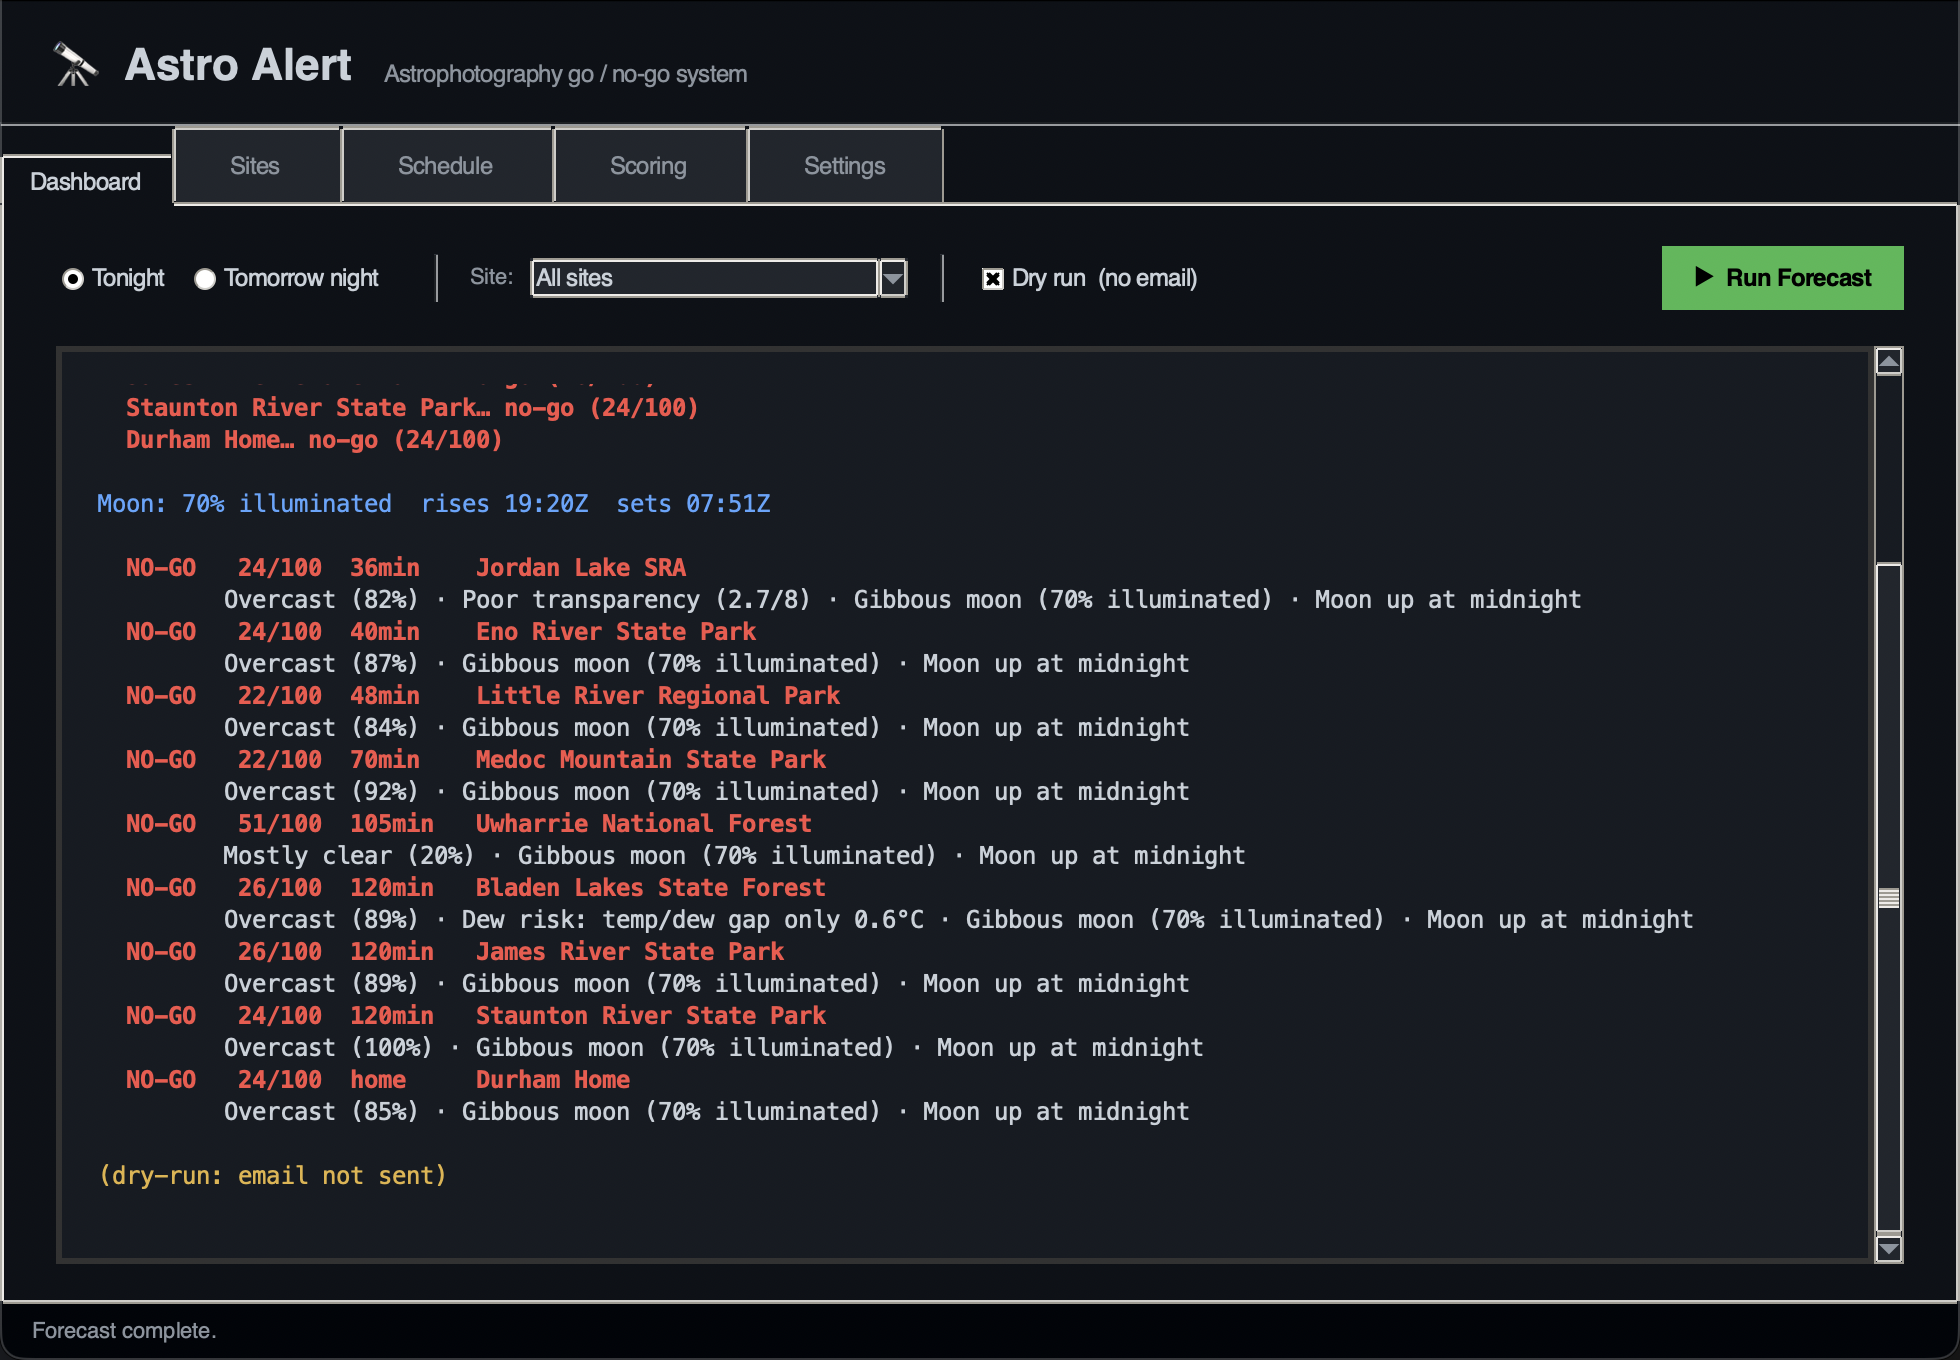
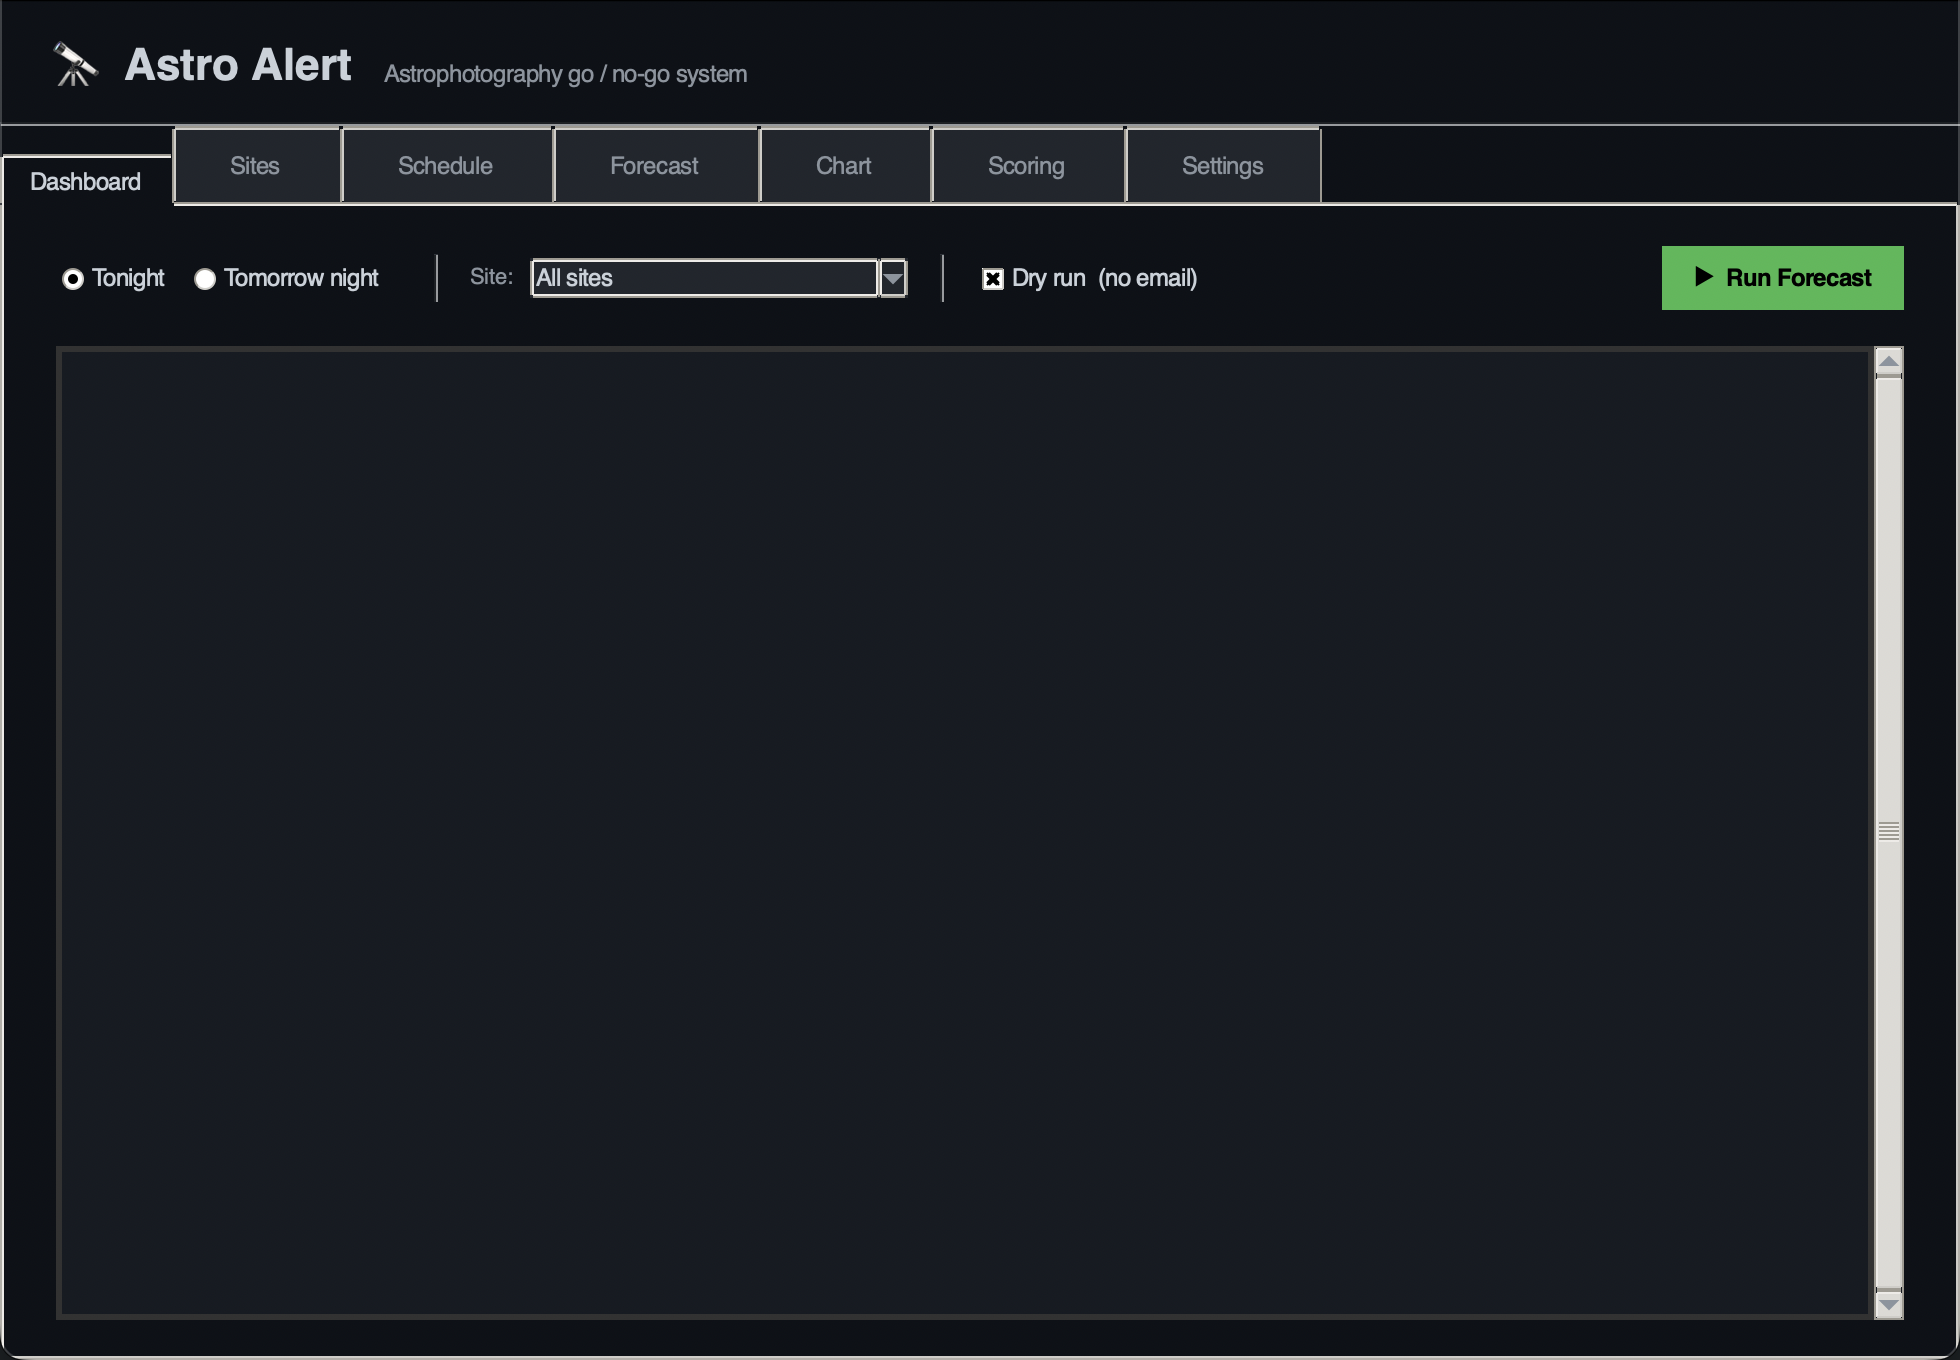
docs: update README for Forecast/Chart tabs and refresh all screenshots

diff --git a/README.md b/README.md
@@ -4,7 +4,7 @@ Go/no-go email alert system for astrophotography sessions. Fetches weather, atmo
 
 ## GUI
 
-Astro Alert has a graphical control panel with five tabs:
+Astro Alert has a graphical control panel with seven tabs:
 
 **Dashboard** — run a dry-run or live forecast for any site, with colour-coded GO/NO-GO output.
 
@@ -19,6 +19,14 @@ Astro Alert has a graphical control panel with five tabs:
 **Schedule** — set up the two automatic daily emails with one click. Astro Alert runs itself in the background every day — no need to remember to open it.
 
 ![Schedule](screenshots/schedule.png)
+
+**Forecast** — 14-night outlook for any site. Each night shows a GO/NO-GO verdict, total score, average cloud cover, and moon illumination. Click a row to expand a detail panel with the full breakdown and seeing notes.
+
+![Forecast](screenshots/forecast.png)
+
+**Chart** — 72-hour colour-coded heatmap of cloud cover, seeing, transparency, wind, humidity, temperature, precipitation, and moon phase — one column per hour, scrollable. Hover any cell for the exact value. A colour legend explains the scale for each row.
+
+![Chart](screenshots/chart.png)
 
 **Scoring** — adjust how much each factor (weather, seeing, moon) contributes to the go/no-go score. Sliders for all top-level and sub-weights; changes persist across sessions and are picked up by the next forecast run.
 
@@ -336,11 +344,12 @@ Sites are listed in drive-time order (shortest first). The subject line calls ou
 astro_alert/
 ├── main.py              # Entry point: GUI when run bare, CLI when run with args
 ├── astro_alert.py       # CLI entry point and argument parser
-├── gui.py               # Tkinter GUI (dashboard, sites, schedule, scoring, settings)
+├── gui.py               # Tkinter GUI (dashboard, sites, schedule, forecast, chart, scoring, settings)
 ├── data_dir.py          # Platform-aware user data directory
 ├── scheduler_setup.py   # Cross-platform cron / Task Scheduler install
 ├── site_manager.py      # Load/save sites.json
-├── weather.py           # Open-Meteo weather fetch
+├── chart_html.py        # 72-hour chart data model, color functions, HTML render
+├── weather.py           # Open-Meteo weather fetch (single night + 14-day range)
 ├── seeing.py            # 7timer.info seeing/transparency fetch
 ├── moon.py              # Moon phase and rise/set via ephem
 ├── scorer.py            # Bortle-aware 0–100 scoring with configurable weights
